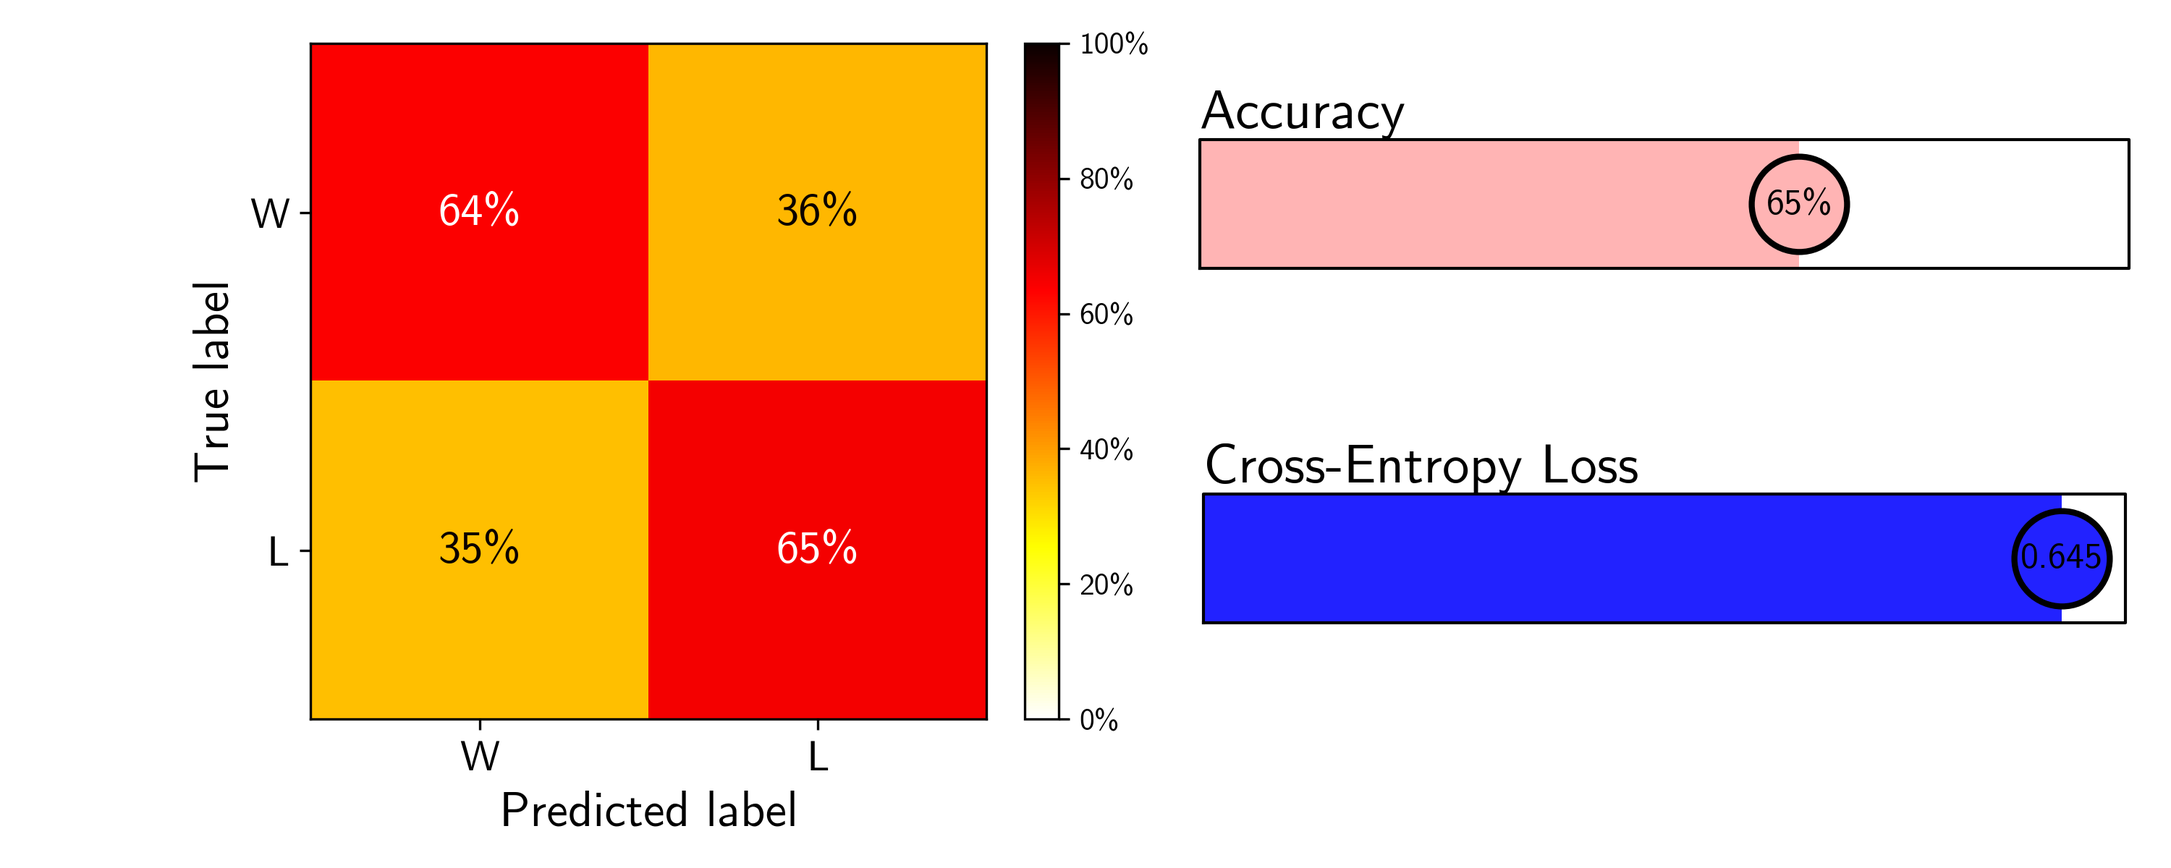
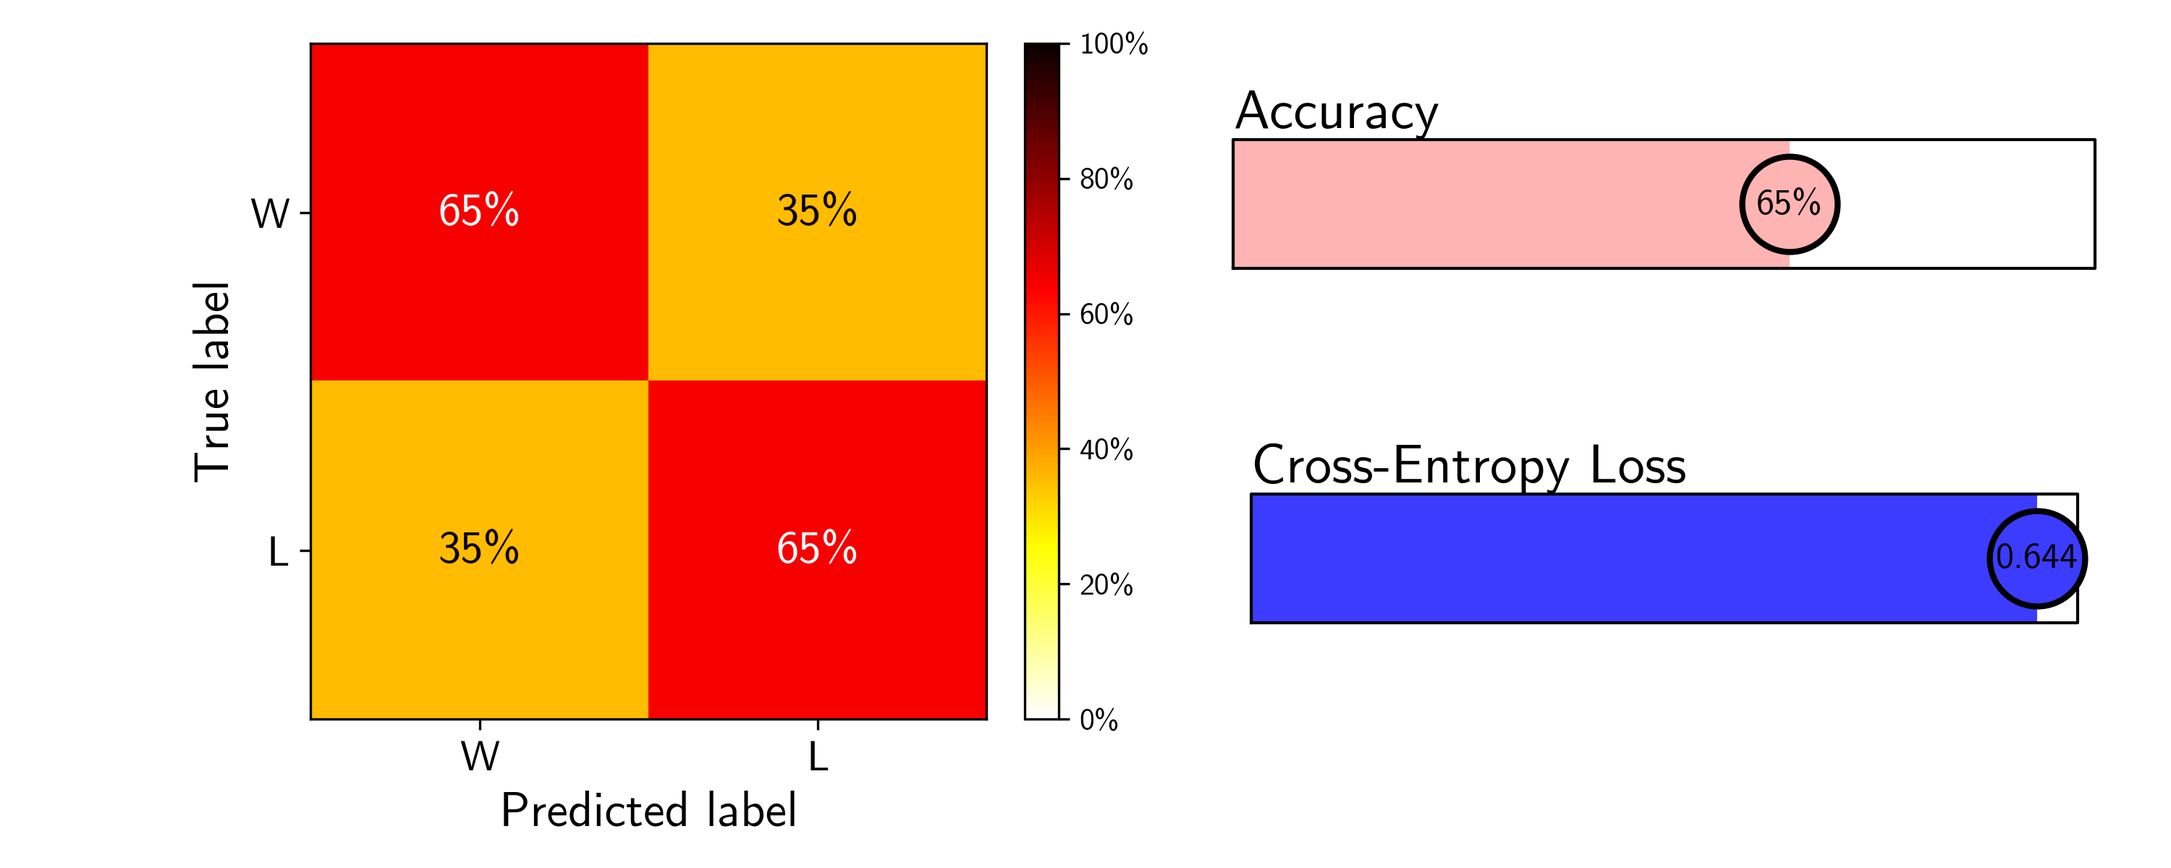
message

diff --git a/css/gallery.css b/css/gallery.css
@@ -211,6 +211,51 @@
 
 
 
+.float-left-figure {
+  float: left;
+  width: 48%;
+  margin-right: 50px;
+  margin-bottom: 10px;
+}
+
+.float-left-figure img {
+  width: 100%;
+  height: auto;
+  border-radius: 5px;
+  display: block; /* Ensures no space below image */
+}
+
+.float-left-figure figcaption {
+  font-style: italic;
+  color: #555;
+  font-size: 14px;
+  margin-top: 5px;
+  text-align: left;
+}
+
+
+.center-figure {
+  float: center;
+  width: 98%;
+  margin-right: 50px;
+  margin-bottom: 10px;
+}
+
+.center-figure img {
+  width: 100%;
+  height: auto;
+  border-radius: 5px;
+  display: block; /* Ensures no space below image */
+}
+
+.center-figure figcaption {
+  font-style: italic;
+  color: #555;
+  font-size: 14px;
+  margin-top: 5px;
+  text-align: center;
+}
+
 /* Define a reusable class for framed, centered figures with captions */
 .framed-figure {
   text-align: center;

diff --git a/_posts/2025-08-01-win_projector.md b/_posts/2025-08-01-win_projector.md
@@ -12,47 +12,74 @@ tools:
   - "`peewee`"
   - "`pandas`"
   - "`nba_api`"
+  - "`statsmodels`"
 ---
 
 
-Predicting the reuslt of a matchup in any sport is a challenge. Sportsbooks use sophisticated models trained on large quantities of historic data, that are constantly updated with real time data, injury reports, and market behvaior. But setting a moneyline or point spread essentially boils down to a data science problem, and with [access to nearly 30 years of NBA data](/shot_chart/), one that I can try to tackle.
+Predicting the result of a matchup in any sport is a challenge. Sportsbooks use sophisticated models trained on large quantities of historic data that are frequently updated in real time information like consider injury reports and market behavior. But setting a moneyline or point spread essentially boils down to a data science problem, and with [access to nearly 30 years of NBA data](/shot_chart/), one that I can try to tackle.
 
-The goal of this project is to explore the ability of different ML models to predict the outcome of NBA game based solely on data from each teams games played before the matchup. I'll explore various aspects of feature engineering, compare models of varying complexity, and attempt to distill the key factors that can swing a matchup. But before we start, we must establish a baseline to compare against our model.
+The goal of this project is to explore the ability of different ML models to predict the outcome of NBA game based solely on data from each teams games played before the matchup. I'll explore various aspects of feature engineering, compare models of varying complexity, and attempt to distill the key factors that can swing a matchup. But before we start, we must establish a baseline to compare our models against.
 
-## Simple Win Projector — Win%
-To assess if our matchup predictor model is any good, we first need to gauge the difficulty of our problem. We do this by assuming the simplest model one could use to determine the outcome of matchup, one based purely on team win % at the time of game. If Team A has a higher win % than Team B, then our model would predict that Team A will win the matchup, and vice versa. A
-softer baseline model may instead produce the probability that Team A/B wins, using the simple [Bradley-Terry (BT) model](https://en.wikipedia.org/wiki/Bradley%E2%80%93Terry_model):
+## Simplest Win Projector — Home Team
+Home court advantage matters in the NBA. Without knowing anything details about a matchup, its not a bad guess to predict that the home team will win. And this is borne out in our dataset: across the nearly ~30,000 total regular season matchups from the 1997-98 to 2024-25 seasons, the home team won 58.8% of the time. We can use this to inform our baseline model and define a *Bayesian prior* --- before considering any team specific data, what is the likelihood of observing a win given our real-world, historical knowledge of the NBA. Our simple model will simply predict
 
 $$
-P(\text{A beats B}) = \frac{\text{W}\%_{\rm A}}{\text{W}\%_{\rm A} + \text{W}\%_{\rm B}},
-$$
+P(\text{A beats B}) = 
+\begin{cases}
+0.588 & \text{if A is home team} \\
+1-0.588 = 0.411 & \text{if B is home team} 
+\end{cases}
+$$ 
 
-where our classifier would then assign a win to Team A if $$P(\text{A beats B}) > 0.5$$. Season win percentage needs time to stabilize, so I will predict matchups only after each team has played 10 games.
+and assign a win to the home team every single time.
 
 To score our various models, we will use three metrics:
 * Accuracy score (i.e. # correct predictions / # total predictions)
-* Cross-entropy loss (i.e. negative log-liklihood)
+* Cross-entropy loss (i.e. negative log-likelihood)
 * Confusion Matrix (i.e. breakdown of true/false positives/negatives)
 
-While the accuracy score provides a simple way to evaluate how well our model is at perfomring the task at hand (predicting matchups), the cross-entropy loss is a better gauge of how well-calibrated our classifier is. The cross-entropy penalizes confident wrong predictions, and therefore is more equipped to provide feedback for a model that predicts the probability of an event occuring. And finally, the confusion matrix provides a nice visual of how our model performs for each class - since our data will have exactly as many true wins as true losses, we should expect similar behavior within each true outcome. 
+While the accuracy score provides a simple way to evaluate how well our model is at performing the task at hand (predicting matchups), the cross-entropy loss is a better gauge of how well-calibrated our classifier is. Cross-entropy penalizes confident wrong predictions, and therefore provides better feedback for a model that predicts the probability of an event occurring. And finally, the confusion matrix provides a nice visual of how our model performs for each class --- since our data will have exactly as many true wins as true losses, we should expect similar behavior within each true outcome. 
 
 Our three metrics for this simple model are displayed below.
 
 <!-- ![simple](/assets/win_projector/simple.png) -->
 
 <figure class="framed-figure">
-  <img src="/assets/win_projector/simple.png" alt="season_four">
+  <img src="/assets/win_projector/simplest.png" alt="season_four" />
+  <figcaption>Baseline model based purely on home court advantage.</figcaption>
+</figure>
+
+The accuracy of this model is 59%, as expected, and because it predicts a flat win probability, it performs identically across both wins and losses. The loss is large though, relatively speaking --- a completely uninformed model that predicts wins and losses with a constant probability of 50% has a cross-entropy loss of ~0.693. To provide a scale to compare the loss for our future models, we will use the value from this baseline model as the max loss we aim to improve upon. We can now begin to provide our model with team context.
+
+
+
+## Season-to-Date Win%
+A simple step up from our baseline model is to predict matchups based purely on team win % at the time of game. If Team A has a higher win % than Team B, then our model will predict that Team A will win the matchup, and vice versa. A
+softer model may instead produce the probability that Team A/B wins, using the simple [Bradley-Terry (BT) model](https://en.wikipedia.org/wiki/Bradley%E2%80%93Terry_model):
+
+$$
+P(\text{A beats B}) = \frac{\text{W}\%_{\rm A}}{\text{W}\%_{\rm A} + \text{W}\%_{\rm B}},
+$$
+
+where our classifier would then assign a win to Team A if $$P(\text{A beats B}) > 0.5$$. We expect that a teams season-to-date win percentage will need time to stabilize, so I will predict matchups only after each team has played 10 games (chosen somewhat arbitrarily here, but explored in more detatil below).
+
+<figure class="framed-figure">
+  <img src="/assets/win_projector/simple.png" alt="season_four" />
   <figcaption>Bradley-Terry model based on season-to-date win percentage.</figcaption>
 </figure>
 
-The simple win model performs nearly identically across both wins and losses and has an overall accuracy of of 67%, ar already not so bad. The loss is large though, relatively speaking (i.e. as compared to a value of ~0.693, corresponding to a model that predicts wins and losses with a constant probability of 50%).
+This simple win model has an overall accuracy of 65%, already not so bad. The loss has been reduced slightly, but can certainly be improved further with stronger feature engineering and a more complex model architecture.
 
-The goal is to design a model that beats these metrics, and I will explore a few different approaches in the remainder of this post.
-
-## Four Factor
+## Four Factor - Running Average
 [Dean Oliver](http://www.basketballonpaper.com/), one of the pioneers of basketball analytics, developed the "four factors" as a simple and powerful method to predict basketball success. The four factors aim to isolate the most impactful contributors to winning: shooting, turnovers, rebounding, and free throws. They can be broken down into eight stats, four for offense and four for defense:
 
-![eos](/assets/win_projector/eos_four.png){: style="max-width: 48%; height: auto; float: left; padding-right: 50px"}
+<!-- ![eos](/assets/win_projector/eos_four.png){: style="max-width: 48%; height: auto; float: left; padding-right: 50px"} -->
+
+<figure class="float-left-figure">
+  <img src="/assets/win_projector/eos_four.png" alt="eos" />
+  <figcaption>Predicting end-of-season win percentage using linear model trained on the four factors. Data from 1997-98 to 2024-25 NBA seasons.</figcaption>
+</figure>
+
 
 * Effective Field Goal Percentage
 * Turnover Percentage
@@ -65,44 +92,80 @@ The goal is to design a model that beats these metrics, and I will explore a few
 
 
 
-It's well know that NBA team performance in these eight statistics correlates very well with end of season win percentage. Our linear regression confirms this, with all features exhibiting high statistical significance ($$p \ll 0.05$$). This begs the question, do these stats hold the same predictive power on a game-by-game basis?
+It's well known that NBA team performance in these eight statistics correlates very well with end of season win percentage. Our linear regression confirms this, with all features exhibiting high statistical significance ($$p \ll 0.05$$). This begs the question, do these stats hold the same predictive power on a game-by-game basis?
 
-To test this, I first scraped stats.nba.com of team boxscore data extending to 1997 (see my post on the [evolution of the nba shot chart](/shot_chart/) for details on this process). This data set has all the information I need to calculate the rolling average four factor statistics at any point in a season for any time; these will be the features I use in a generalized linear model (i.e. logistic regression model) to predict matchup outcomes. The feature matrix is:
+To test this, I first scraped stats.nba.com of team box score data extending from 1997-98 to 2024-25, exclduing the two strike shortened seasons and the COVID season (see my post on the [evolution of the NBA shot chart](/shot_chart/) for details on this process). This data set has all the information I need to calculate the rolling average four factor statistics at any point in a season for any time; these will be the features I use in a generalized linear model (i.e. logistic regression model) to predict matchup outcomes. The feature matrix is illustrated below:
 
 
 | Matchup | Team A Four Factors (Off.) | Team A Four Factors (Def.) | Team B Four Factors (Off.) | Team B Four Factors (Def.) | Context |
-|------------|-----------|------------|---------|---------|---------|---------|
-| $$A_1$$ vs. $$B_1$$ | ▇▁▅▃ | ▆▂▃▅ |  ▇▆▃▁ | ▄▂█▁ | ▄▂█▁ |
-| $$A_2$$ vs. $$B_2$$  |▃▆▁▇ | ▄▁▆▃ | ▅▁▄▇ | ▂▇▃▁ | ▄▂█▁ |
-| ... | ... | ... | ... | ... | ... | ... |
-| $$A_N$$ vs. $$B_N$$  |▃▆▁▇ | ▄▁▆▃ |  ▅▁▄▇ | ▂▇▃▁ | ▄▂█▁ |
+|------------|-----------|------------|---------|---------|---------|
+| <span style="font-size: 12px;">$$A_1$$ vs. $$B_1$$</span> | ▇▁▅▃ | ▆▂▃▅ |  ▇▆▃▁ | ▄▂█▁ | ▄▂█▁ |
+|  <span style="font-size: 12px;">$$A_2$$ vs. $$B_2$$</span>  |▃▆▁▇ | ▄▁▆▃ | ▅▁▄▇ | ▂▇▃▁ | ▄▂█▁ |
+| ... | ... | ... | ... | ... | ... |
+|  <span style="font-size: 12px;">$$A_N$$ vs. $$B_N$$</span>  |▃▆▁▇ | ▄▁▆▃ |  ▅▁▄▇ | ▂▇▃▁ | ▄▂█▁ |
 
-Each row represents a single game in a single season, and the columns correspond to the 2 $$\times$$ 8  four factor stats for each team, averaged over all games within the season leading up to each machup. I also add some 'context' stats that I expect will help inform the W/L decision: season-to-date win percentage for each team used in the previous model, as well as whether Team A or B is at home (one-hot encoded) and how many days of rest Team A and B have. 
+Each row represents a single matchup, and the columns correspond to the 2 $$\times$$ 8  four factor stats for each team, averaged over all games within the season leading up to the matchup. I also add some "context" stats that I expect will help inform the W/L decision: season-to-date win percentage for each team, as used in the previous model, whether Team A or B is at home (one-hot encoded), and how many days of rest both Team A and Team B have. In total, there were ~50,000 rows of data.
 
-Generating this feature matrix required some simple processing of the basic boxscore stats, a self-join on  `game_id` with a filter to remove duplicates (to calculate the defensive four factors), a rolling average aggregation to generate season-to-date statistics, and another self-join on  `game_id` to combine the aggregated data for both teams in each matchup. The intial query of the boxscore data was done using SQL, but much of the heavy lifting was done in Python, using `pandas`. 
+Generating this feature matrix required some simple processing of the basic box score stats, a self-join on `game_id` with a filter to remove duplicates (to calculate the defensive four factors), a running average aggregation to generate season-to-date statistics, and another self-join on `game_id` to combine the aggregated data for both teams in each matchup. The initial query of the box score data was done using SQL, but much of the heavy lifting was done in Python, using `pandas`. 
 
-Here are the results of the trained model on the test data (75-25 split):
+Here are the results of the trained logistic regression model on the test data (75%/25% split). Again, all features were statistically significant ($$p \ll 0.05$$).
 
-<!-- #### Four Factors
-![season_four](/assets/win_projector/season_four.png)
- -->
 <figure class="framed-figure">
-  <img src="/assets/win_projector/season_four.png" alt="season_four">
-  <figcaption>Logisitc regression model based on season-to-date four factor stats.</figcaption>
+  <img src="/assets/win_projector/four_factor.png" alt="season_four">
+  <figcaption>Logistic regression model based on season-to-date four factor stats (10 game cutoff).</figcaption>
 </figure>
 
-While the accuracy only slighlty improves, the cross-entropy loss has reduced more substnatially, indicating that this model more calibrated to predict wins and losses than the simple win perctange based BT model. Perhaps with a better metric to describe a teams stength, like [ELO rating](https://en.wikipedia.org/wiki/Elo_rating_system), the returned prbabilities of the BT model would be more accurate.
-
-![eos](/assets/win_projector/stabilize.png){: style="max-width: 48%; height: auto; float: left; padding-right: 50px"}
-
-Just as with the simple win percentage model, I imposed the constraint that each team must have played at lease 10 games to be part of the data set, to give some time for the four factor stats to stabilize. Empirically, it appears that each of the four factor stats stabilize at their own rate (see plot on left). But after around 10 game, on average, each stat is within 10% of the end of season value, implying some level of stabilization. Choosing a larger cutoff would likely improve the model, but at the cost of being able to predict fewer outcomes within a given season. This balance could be something to explore in more detail later (perhaps using cross-validation). 
+While the accuracy improved only modestly, the cross-entropy loss has reduced more substantially, indicating that this model is more calibrated to predict wins and losses than the simple win percentage based BT model. The form of the BT model can be simply related to the sigmoid function used to generate probabilities in logistic regression, if team strength is instead reparametrized as an exponential. In this case, team win percentage is not the most appropriate metric to use, and something like the [ELO rating](https://en.wikipedia.org/wiki/Elo_rating_system) common in chess would be better. [Calculating ELO rating for NBA teams](https://www.reddit.com/r/nba/comments/1j2do9p/i_calculated_the_nba_elo_ratings_for_202425/) would be an interesting extension to this simple BT model.
 
 
-## Four Factor +
-The issue with the current set up is that the temporal information about a time 
+<!-- ![eos](/assets/win_projector/stabilize.png){: style="max-width: 48%; height: auto; float: left; padding-right: 50px"} -->
+
+<figure class="float-left-figure">
+  <img src="/assets/win_projector/stabilize.png" alt="eos_four">
+  <figcaption>Stabilization of the running average four factor stats, as represented as the mean deviation across all teams in the data set from their values at end-of-season.</figcaption>
+</figure>
+
+
+Just as with win percentage model, I imposed the constraint that each team must have played at lease 10 games to be part of the data set, to give some time for the four factor stats to stabilize. Empirically, it appears that the four factor stats stabilize at different rates (see plot on left). But after around 10 games, on average, each stat is within 10% of its end of season value, implying some level of stabilization. Choosing a larger cutoff could improve the model, but at the cost of being able to predict fewer outcomes within a given season. We can explore this balance using cross-validation.
+
+### Choosing a Minimum Games Played Cutoff
+
+<figure class="center-figure">
+  <img src="/assets/win_projector/running_avg_cutoff.png" alt="cutoff">
+  <figcaption>Performance of model trained on data using different minimum games played cutoffs.</figcaption>
+</figure>
+
+Two choose an optimal minimum game cutoff, I further split the training data into a smaller training set and validation set (75%/25% split, once again). I then trained the model on subsets of the training data set, pruning to keep only matchups where both teams played a set minimum number of games. The running average stats for each team will be more robust as the cutoff increases, which results in an improvement of the model's performance on both the training and validation data sets. However, at a certain point, the training data size becomes too small, and the predictive power of the model starts to deteriorate, resulting in poorer performance on the validation data. 
+
+It's interesting that the performance on the training data seems to somewhat plateau between the 10 and 30 game cutoffs. Perhaps this suggests that there are two stages of stabilization: there is a lot of early season variation that flattens out quickly, followed by more long-term stabilization, perhaps related to lineup adjustment and trades. This seems challenging to capture with our model and would likely require more sophisticated time series modeling to account for.
+
+
+In any case, just as our validation results predicts, the model trained using a 50 game cutoff indeed performs best on the test data.
+
+
+<figure class="framed-figure">
+  <img src="/assets/win_projector/four_factor_50.png" alt="season_four_50">
+  <figcaption>Logistic regression model based on season-to-date four factor stats (50 game cutoff).</figcaption>
+</figure>
+
+However, I'm not sure that the 50 game cutoff model is really an improvement over the 10 game cuttoff. The lower loss implies that the predictions are better calibrated, but only being able to predict games 51 through 82, as opposed to 11 through 82, is fairly constraining for only a 3% increase in the model accuracy.
+
+<!-- ## Four Factor + Rolling Average
+The issue with the current set up is that temporal information is highly suppressed by using a rolling average. If a team makes a midseason trade, loses a key player to injury, or is just in a cold/hot streak (the existence of such a thing being left for another discussion), we would expect a change in their likelihood of winning any given matchup. This would be reflected in the team's season-long running averages, but the strength of this signal may be small depending on when these changes occur. A way to capture this temporal data is to include a team's *rolling* average over the previous $$n$$ games in our feature matrix.
+
+
+<figure class="float-left-figure">
+  <img src="/assets/win_projector/cavs_15.png" alt="eos_four">
+  <figcaption>Example of rolling vs. running average effective field goal perctange over course of season, 2014-15 Cleveland Caveliers.</figcaption>
+</figure>
+
+
+A recent example that comes to mind is during the 2014-15 season, the Cleveland Cavaliers traded for three players that ended up being massive contributors to their NBA finals found team: J.R. Smith, Iman Shumpert, and Timofey Mozgov. You can clearly see their impact represented in the 10 game rolling average of the team effective field goal percentage, shown on the left. After a a short adjustment period resulting in a four gamem post-trade losing streak, the Cavs went on to win 12 straight with thier new additions, and their good play can be captured by the a large spike in the team 
+ -->
+
 
 $$
-\tilde{}
+\sim
 $$
 
 

diff --git a/cv.md b/cv.md
@@ -17,8 +17,7 @@ title_custom: Curriculum Vitae
 
 ## Publications:
 Full list on [Google Scholar Profile](https://tinyurl.com/scholargs)
-* **Schumm, G.**, Zhang, S., & Sandvik, A. W. Single-Particle Dispersion and Density of States of the Half-Filled 2D Hubbard Model
-. arXiv:2504.02614. (2025) ([link](https://arxiv.org/pdf/2504.02614))
+* **Schumm, G.**, Zhang, S., & Sandvik, A. W. Single-Particle Dispersion and Density of States of the Half-Filled 2D Hubbard Model. *Phys. Rev. B* 112, 085109. (2025) ([link](https://journals.aps.org/prb/abstract/10.1103/8dnp-w7c6))
 
 * **Schumm, G.**, Yang, S., & Sandvik, A. W. Cross validation in stochastic analytic continuation. *Phys. Rev. E*, 110, 055307. (2024) ([link](https://doi.org/10.1103/PhysRevE.110.055307))
 
